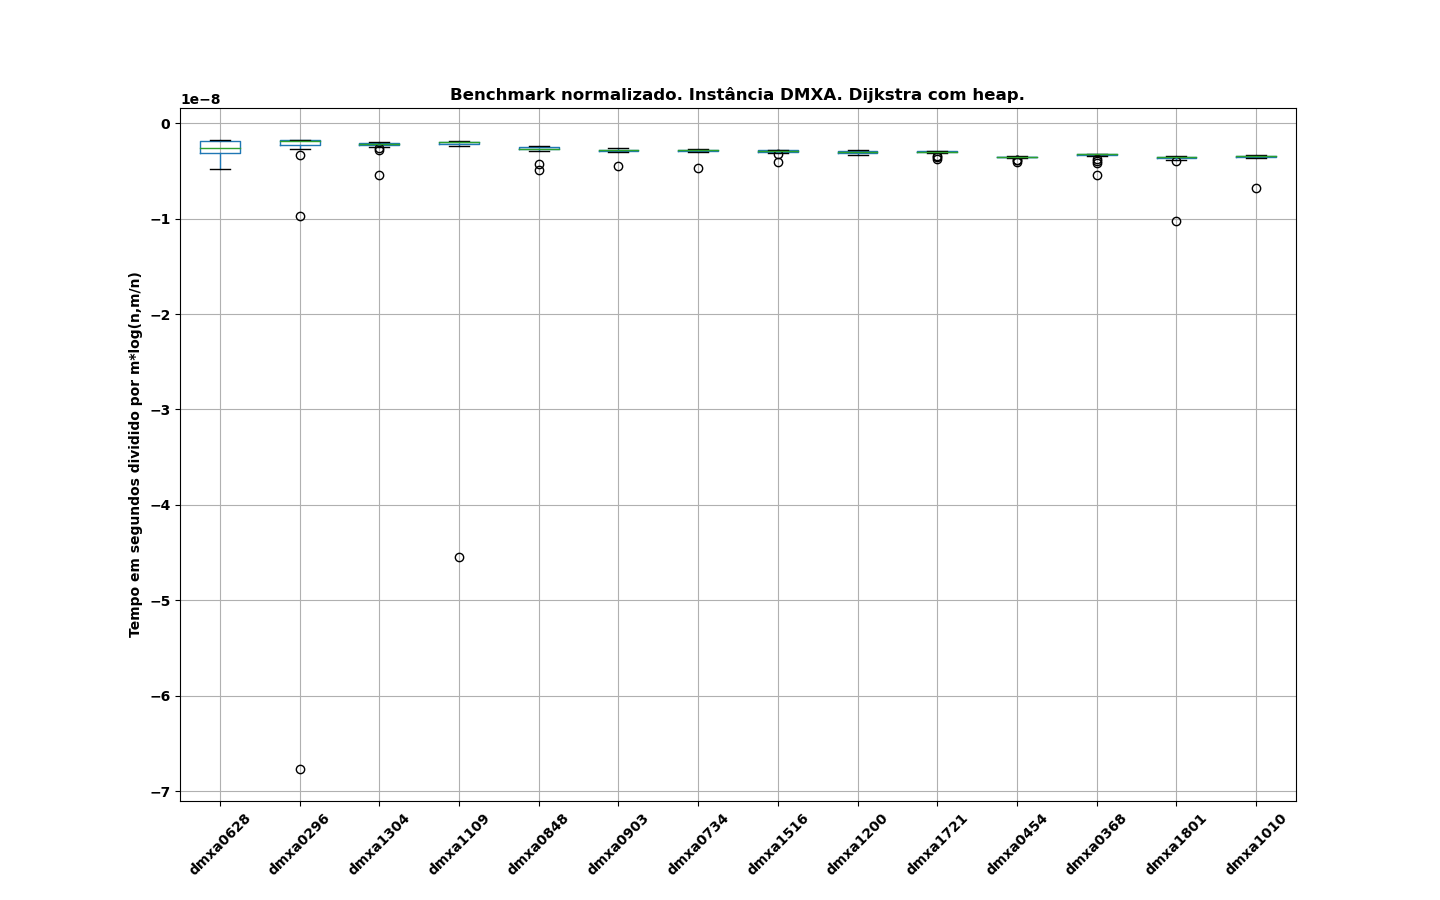
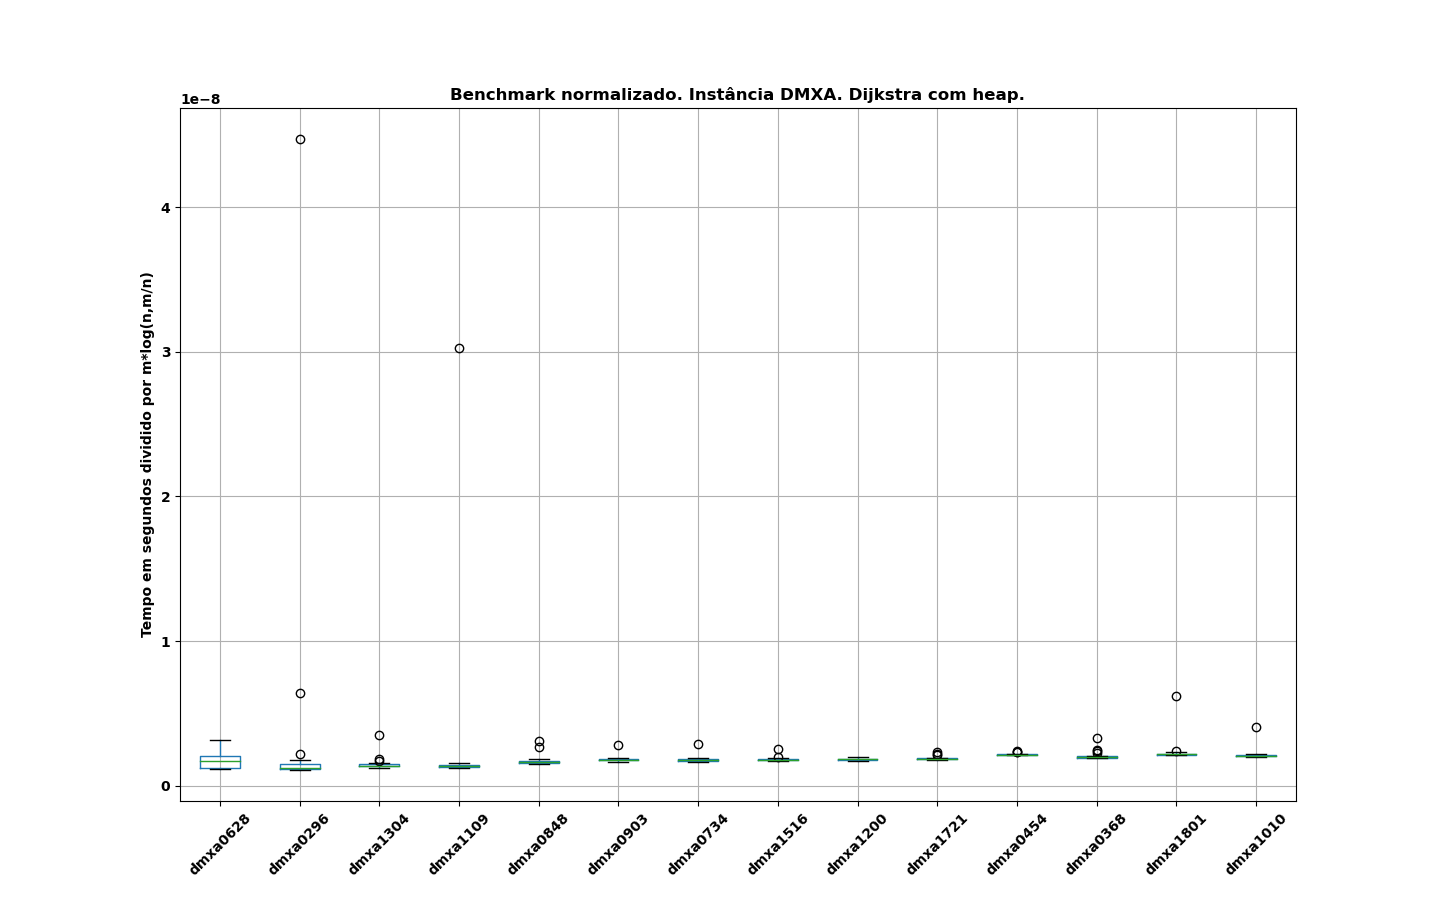
Fixed the normalized benchmark graphics

diff --git a/plot/main.py b/plot/main.py
@@ -35,8 +35,8 @@ def load_data():
                 content = content.split(':')
 
                 dims = content[0][17:][:-1].split(',')
-                m = int(dims[0])
-                n = int(dims[1].strip())
+                n = int(dims[0])
+                m = int(dims[1].strip())
 
                 if 'array' in content[0]:
                     timings_type = test_inst['array']
@@ -72,15 +72,15 @@ for (problem, problem_data) in data.items():
         ratio_filename = 'res/ratio_' + problem + '_' + algo + '_'
 
         if problem[0] != 't':
-            problem = problem.upper()
+            problem_norm = problem.upper()
 
         if algo == 'array':
             divisor = ' dividido por n²'
         else:
             divisor = ' dividido por m*log(n,m/n)'
 
-        plot(linear, problem, algo, True, '', '', linear_filename + 'outliers')
-        plot(linear, problem, algo, False, '', '', linear_filename + 'no_outliers')
+        plot(linear, problem_norm, algo, True, '', '', linear_filename + 'outliers')
+        plot(linear, problem_norm, algo, False, '', '', linear_filename + 'no_outliers')
 
-        plot(ratio, problem, algo, True, ' normalizado', divisor, ratio_filename + 'outliers')
-        plot(ratio, problem, algo, False, ' normalizado', divisor, ratio_filename + 'no_outliers')
+        plot(ratio, problem_norm, algo, True, ' normalizado', divisor, ratio_filename + 'outliers')
+        plot(ratio, problem_norm, algo, False, ' normalizado', divisor, ratio_filename + 'no_outliers')
